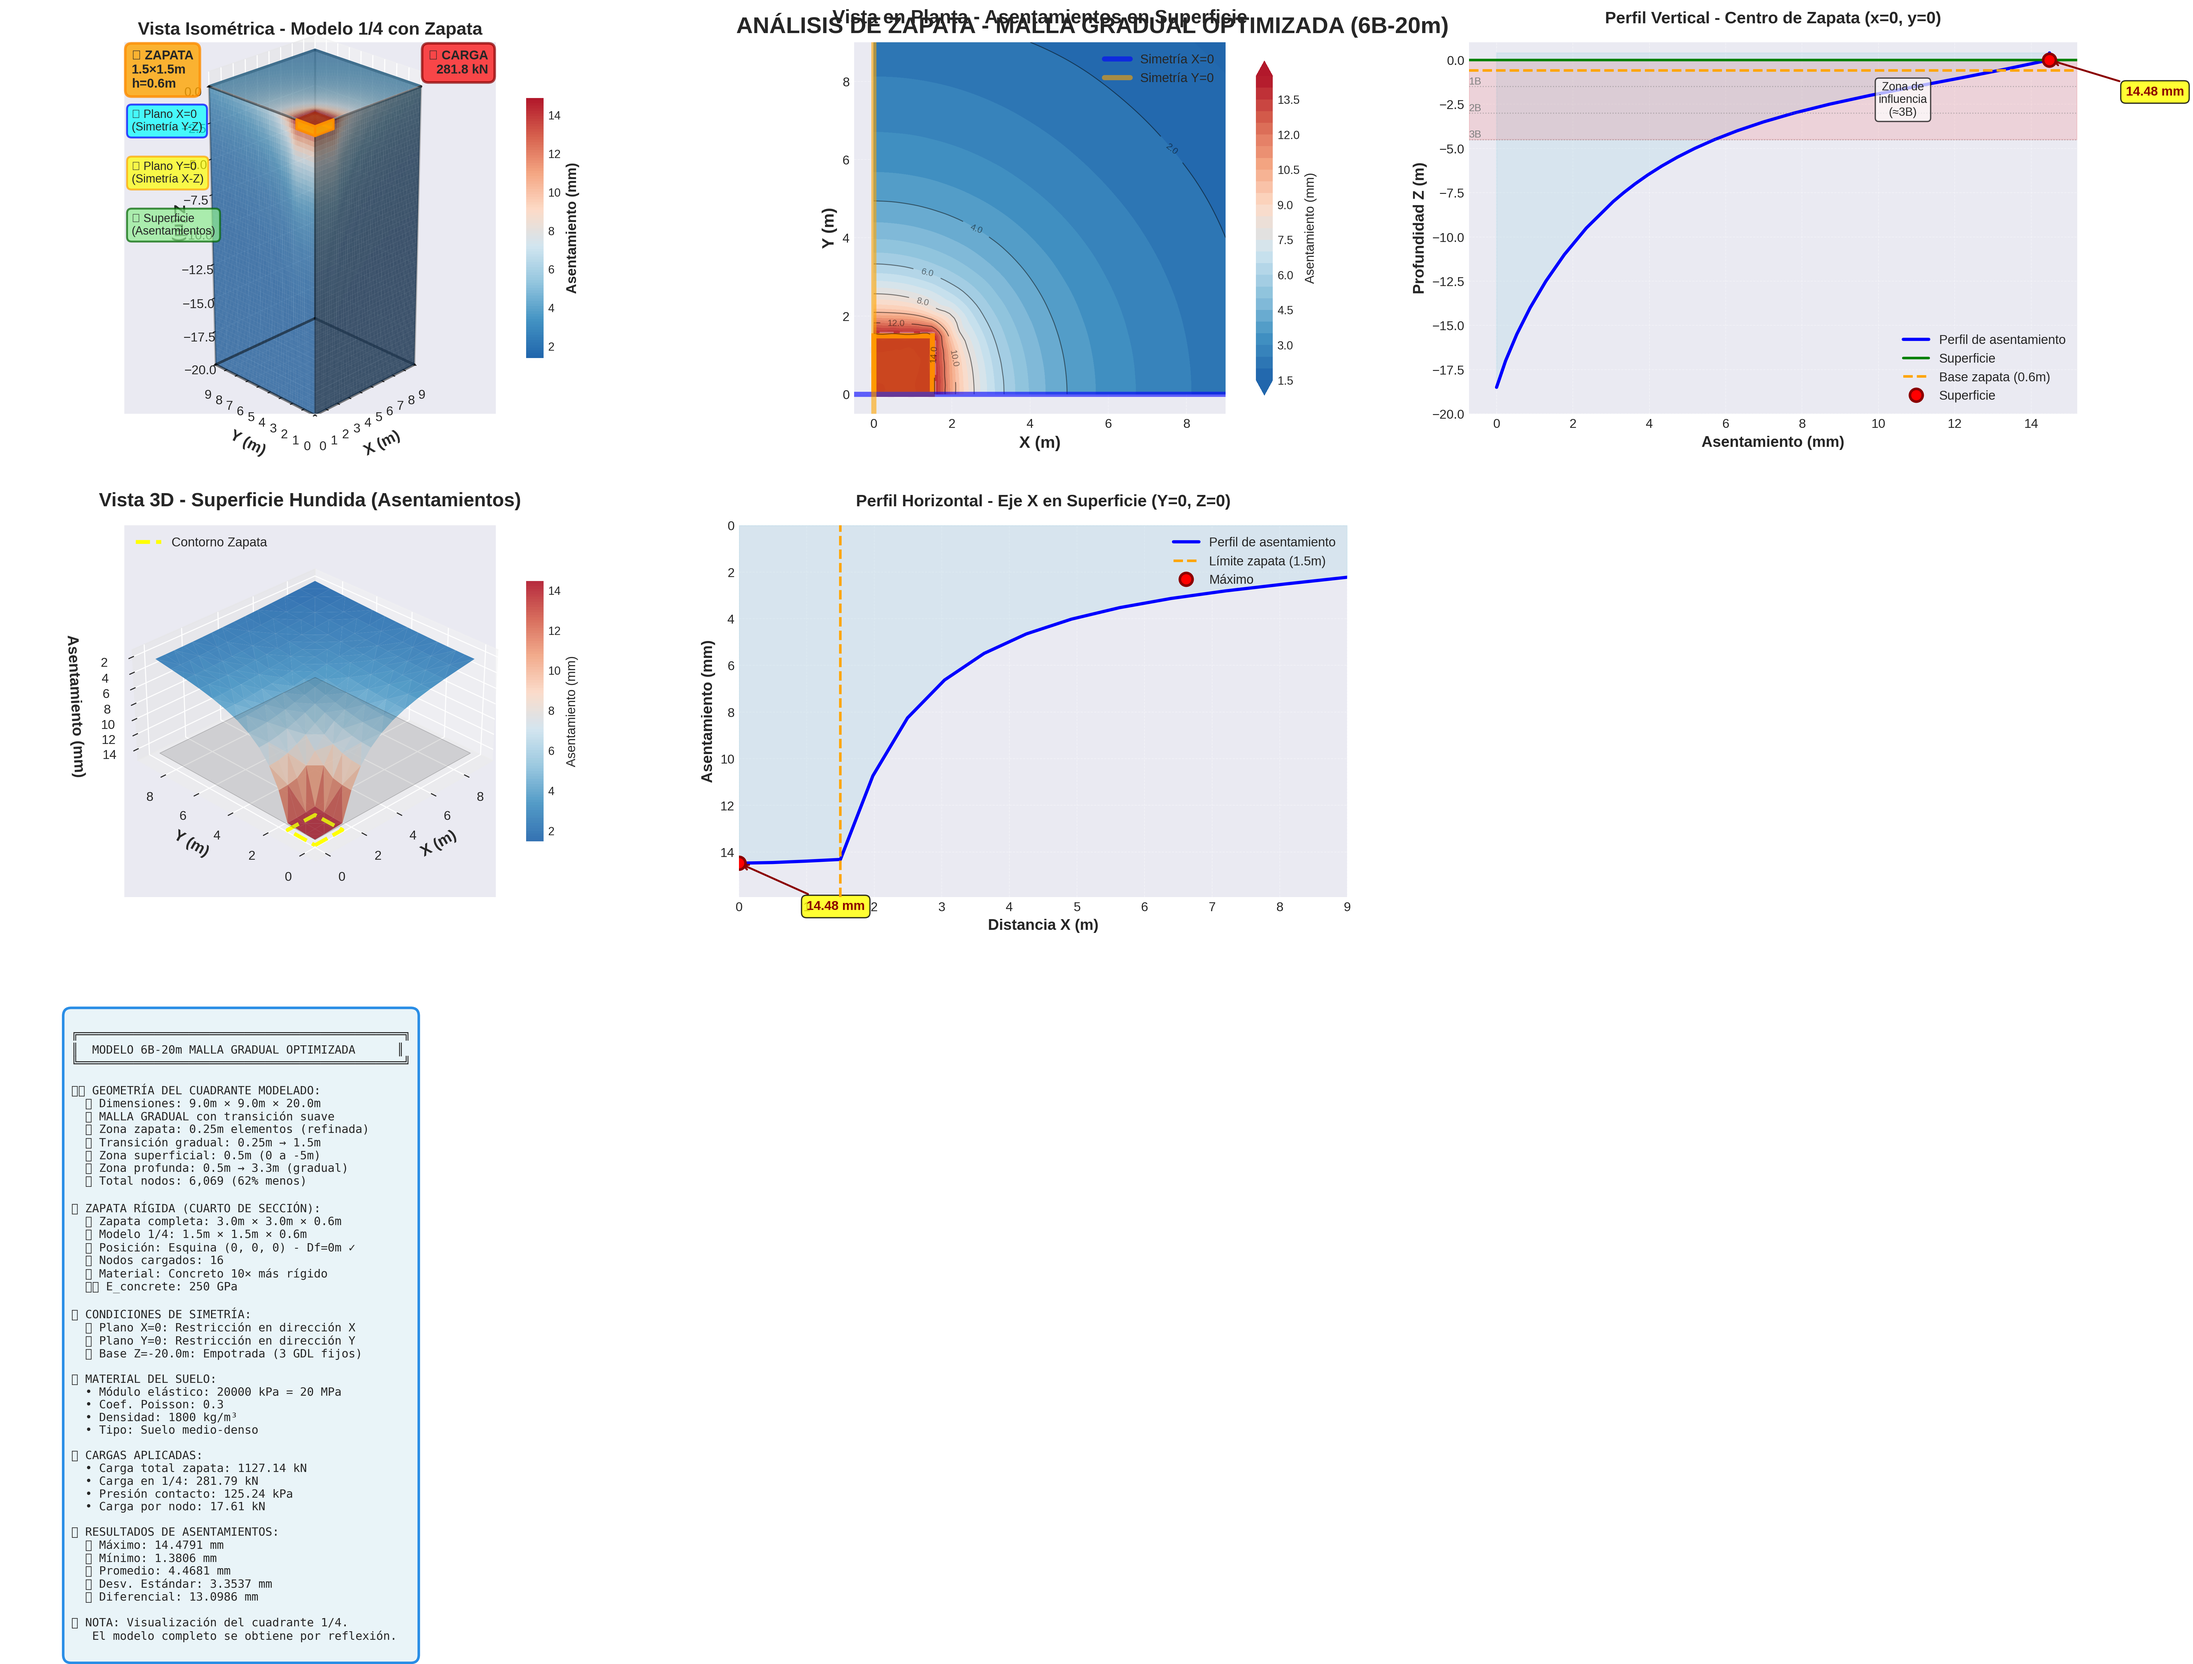
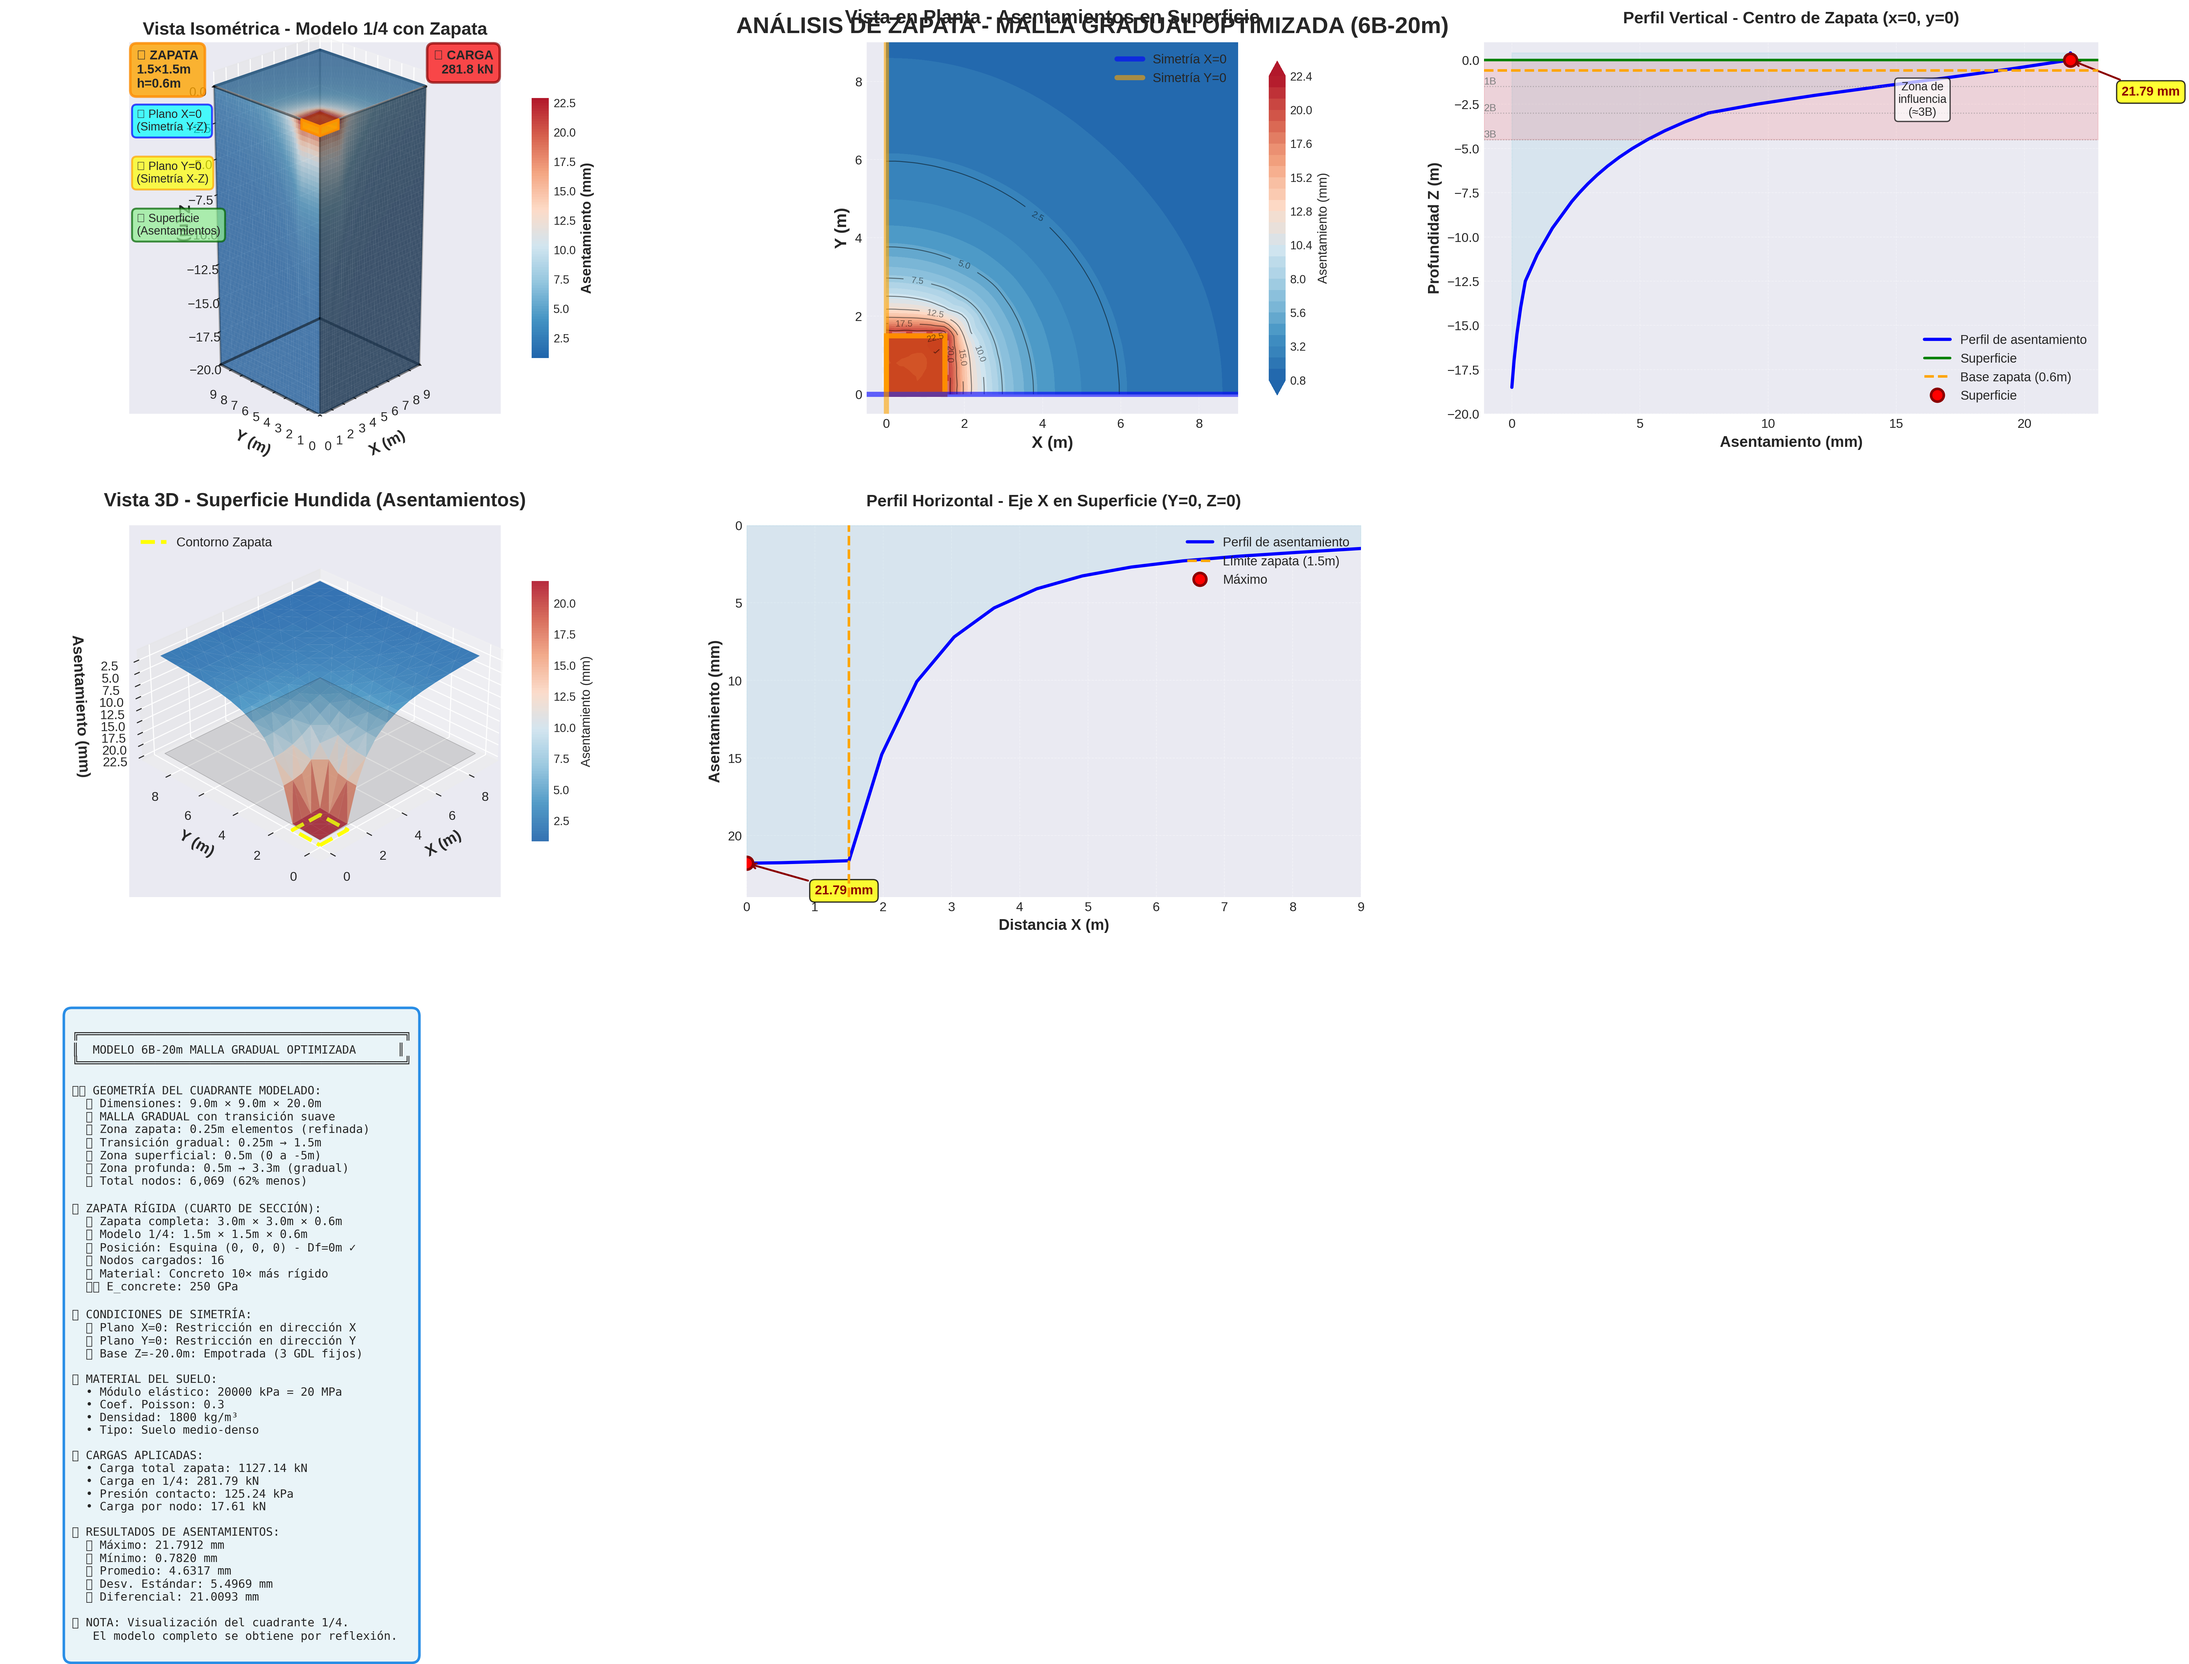
Corregir visualizador para leer datos actuales del análisis
Problema:
- visualize_zapata.py leía archivos viejos (_graded.csv)
- run_analysis.py escribe a archivos sin sufijo (.csv)
- Resultado: visualización mostraba datos antiguos (14.48 mm)

Solución:
- Cambiar visualizador para leer settlements_3d.csv y surface_settlements.csv
- Regenerar imagen con datos correctos del modelo estratificado

Resultado:
- Visualización actualizada muestra 21.79 mm (modelo estratificado)
- Imagen regenerada (2.6M, timestamp 17:16)

diff --git a/visualize_zapata.py b/visualize_zapata.py
@@ -38,20 +38,20 @@ print("Cargando datos de asentamientos...")
 # Intentar cargar datos 3D completos primero
 data_3d_available = False
 try:
-    data_3d = pd.read_csv('settlements_3d_graded.csv')
+    data_3d = pd.read_csv('settlements_3d.csv')
     data_3d_available = True
-    print(f"✓ Datos 3D MALLA GRADUAL cargados: {len(data_3d)} puntos")
-    print(f"  Usando datos REALES de OpenSeesPy con malla optimizada")
+    print(f"✓ Datos 3D cargados: {len(data_3d)} puntos")
+    print(f"  Usando datos REALES de OpenSeesPy")
 except FileNotFoundError:
-    print("⚠ No se encontró settlements_3d_graded.csv")
+    print("⚠ No se encontró settlements_3d.csv")
     print("  Usando datos de superficie + aproximación teórica para profundidad")
-    print("  Para obtener datos reales, ejecuta: python zapata_graded_mesh.py")
+    print("  Para obtener datos reales, ejecuta: python run_analysis.py")
     print("  Ver INSTRUCCIONES_3D.md para más detalles\n")
 
 # Cargar datos de superficie
 try:
-    surface_data = pd.read_csv('surface_settlements_graded.csv')
-    print(f"✓ Datos de superficie (malla gradual) cargados: {len(surface_data)} puntos")
+    surface_data = pd.read_csv('surface_settlements.csv')
+    print(f"✓ Datos de superficie cargados: {len(surface_data)} puntos")
 except FileNotFoundError:
     print("⚠ No se encontró surface_settlements_quarter_full.csv")
     print("  Generando datos sintéticos para demostración...")
